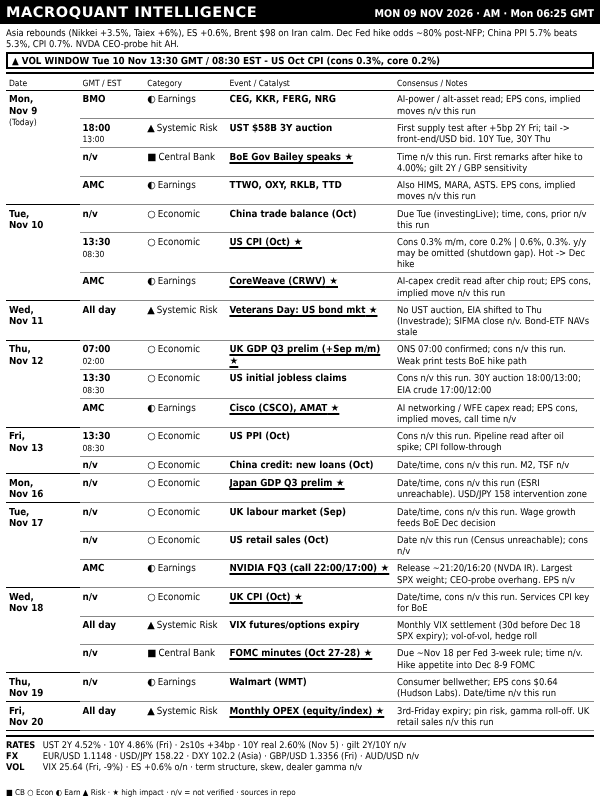
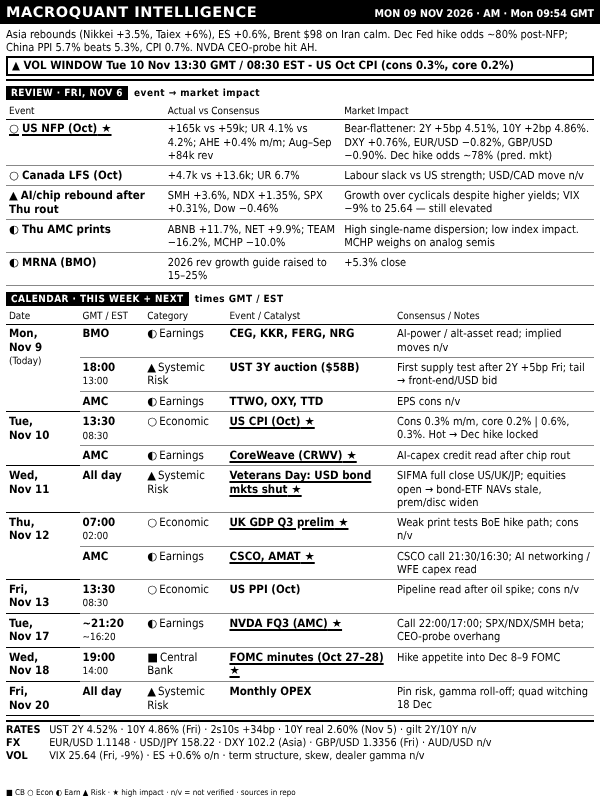
Add previous-session review section; calendar 8-14 rows; PM run moves to 21:36 London (after US close)
Claude-Session: https://claude.ai/code/session_016SJqa3yVmyLKXgTCQTBjVx

Changed region(s): [[0.0, 0.0, 0.99, 0.9688], [0.0, 0.5, 0.09, 0.6875]]

diff --git a/out/dashboard.html b/out/dashboard.html
@@ -26,6 +26,11 @@ table.bd{border-collapse:collapse;width:100%;table-layout:fixed;margin-top:1px}
 .bd tr.h td.ev{text-decoration:underline;text-decoration-thickness:1.5px;text-underline-offset:2px}
 .bd tr.h td.ev:after{content:' ★';font-family:'DejaVu Sans',sans-serif}
 .bd td.nt{font-size:calc(10.2px*var(--s))}
+.sl{margin-top:calc(5px*var(--s));display:flex;align-items:center;gap:6px;font-weight:700;
+  font-size:calc(9.2px*var(--s));letter-spacing:.5px}
+.sl span{background:#000;color:#fff;padding:1px 5px}
+.rv td.ev i{font-style:normal;font-family:'DejaVu Sans',sans-serif;font-weight:400;margin-right:3px}
+.rv td.ac{font-size:calc(10.2px*var(--s))}
 .lv{margin-top:calc(4px*var(--s));border-top:2px solid #000;padding-top:2px}
 .lv div{white-space:nowrap;overflow:hidden;text-overflow:ellipsis;font-size:calc(10px*var(--s))}
 .lv b{display:inline-block;width:calc(40px*var(--s))}
@@ -33,9 +38,11 @@ table.bd{border-collapse:collapse;width:100%;table-layout:fixed;margin-top:1px}
 </style></head><body>
 <div id="root">
  <div class="hdr"><span class="t">MACROQUANT INTELLIGENCE</span>
-  <span class="r">MON 09 NOV 2026 · AM · Mon 06:25 GMT</span></div>
+  <span class="r">MON 09 NOV 2026 · AM · Mon 09:54 GMT</span></div>
  <div class="ban"><div class="rg">Asia rebounds (Nikkei +3.5%, Taiex +6%), ES +0.6%, Brent $98 on Iran calm. Dec Fed hike odds ~80% post-NFP; China PPI 5.7% beats 5.3%, CPI 0.7%. NVDA CEO-probe hit AH.</div><div class="al">▲ VOL WINDOW Tue 10 Nov 13:30 GMT / 08:30 EST - US Oct CPI (cons 0.3%, core 0.2%)</div></div>
- <table class="bd"><colgroup><col style="width:12.5%"><col style="width:11%"><col style="width:14%"><col style="width:28.5%"><col></colgroup><tr><th>Date</th><th>GMT / EST</th><th>Category</th><th>Event / Catalyst</th><th>Consensus / Notes</th></tr><tr class="g0"><td class="dt" rowspan="4">Mon,<br>Nov&nbsp;9<span class="tg">(Today)</span></td><td class="tm"><b>BMO</b></td><td class="ct"><i>◐</i>Earnings</td><td class="ev">CEG, KKR, FERG, NRG</td><td class="nt">AI-power / alt-asset read; EPS cons, implied moves n/v this run</td></tr><tr class=""><td class="tm"><b>18:00</b><span>13:00</span></td><td class="ct"><i>▲</i>Systemic Risk</td><td class="ev">UST $58B 3Y auction</td><td class="nt">First supply test after +5bp 2Y Fri; tail -&gt; front-end/USD bid. 10Y Tue, 30Y Thu</td></tr><tr class="h"><td class="tm"><b>n/v</b></td><td class="ct"><i>■</i>Central Bank</td><td class="ev">BoE Gov Bailey speaks</td><td class="nt">Time n/v this run. First remarks after hike to 4.00%; gilt 2Y / GBP sensitivity</td></tr><tr class=""><td class="tm"><b>AMC</b></td><td class="ct"><i>◐</i>Earnings</td><td class="ev">TTWO, OXY, RKLB, TTD</td><td class="nt">Also HIMS, MARA, ASTS. EPS cons, implied moves n/v this run</td></tr><tr class="g0"><td class="dt" rowspan="3">Tue,<br>Nov&nbsp;10</td><td class="tm"><b>n/v</b></td><td class="ct"><i>○</i>Economic</td><td class="ev">China trade balance (Oct)</td><td class="nt">Due Tue (investingLive); time, cons, prior n/v this run</td></tr><tr class="h"><td class="tm"><b>13:30</b><span>08:30</span></td><td class="ct"><i>○</i>Economic</td><td class="ev">US CPI (Oct)</td><td class="nt">Cons 0.3% m/m, core 0.2% | 0.6%, 0.3%. y/y may be omitted (shutdown gap). Hot -&gt; Dec hike</td></tr><tr class="h"><td class="tm"><b>AMC</b></td><td class="ct"><i>◐</i>Earnings</td><td class="ev">CoreWeave (CRWV)</td><td class="nt">AI-capex credit read after chip rout; EPS cons, implied move n/v this run</td></tr><tr class="g0 h"><td class="dt" rowspan="1">Wed,<br>Nov&nbsp;11</td><td class="tm"><b>All day</b></td><td class="ct"><i>▲</i>Systemic Risk</td><td class="ev">Veterans Day: US bond mkt</td><td class="nt">No UST auction, EIA shifted to Thu (Investrade); SIFMA close n/v. Bond-ETF NAVs stale</td></tr><tr class="g0 h"><td class="dt" rowspan="3">Thu,<br>Nov&nbsp;12</td><td class="tm"><b>07:00</b><span>02:00</span></td><td class="ct"><i>○</i>Economic</td><td class="ev">UK GDP Q3 prelim (+Sep m/m)</td><td class="nt">ONS 07:00 confirmed; cons n/v this run. Weak print tests BoE hike path</td></tr><tr class=""><td class="tm"><b>13:30</b><span>08:30</span></td><td class="ct"><i>○</i>Economic</td><td class="ev">US initial jobless claims</td><td class="nt">Cons n/v this run. 30Y auction 18:00/13:00; EIA crude 17:00/12:00</td></tr><tr class="h"><td class="tm"><b>AMC</b></td><td class="ct"><i>◐</i>Earnings</td><td class="ev">Cisco (CSCO), AMAT</td><td class="nt">AI networking / WFE capex read; EPS cons, implied moves, call time n/v</td></tr><tr class="g0"><td class="dt" rowspan="2">Fri,<br>Nov&nbsp;13</td><td class="tm"><b>13:30</b><span>08:30</span></td><td class="ct"><i>○</i>Economic</td><td class="ev">US PPI (Oct)</td><td class="nt">Cons n/v this run. Pipeline read after oil spike; CPI follow-through</td></tr><tr class=""><td class="tm"><b>n/v</b></td><td class="ct"><i>○</i>Economic</td><td class="ev">China credit: new loans (Oct)</td><td class="nt">Date/time, cons n/v this run. M2, TSF n/v</td></tr><tr class="g0 h"><td class="dt" rowspan="1">Mon,<br>Nov&nbsp;16</td><td class="tm"><b>n/v</b></td><td class="ct"><i>○</i>Economic</td><td class="ev">Japan GDP Q3 prelim</td><td class="nt">Date/time, cons n/v this run (ESRI unreachable). USD/JPY 158 intervention zone</td></tr><tr class="g0"><td class="dt" rowspan="3">Tue,<br>Nov&nbsp;17</td><td class="tm"><b>n/v</b></td><td class="ct"><i>○</i>Economic</td><td class="ev">UK labour market (Sep)</td><td class="nt">Date/time, cons n/v this run. Wage growth feeds BoE Dec decision</td></tr><tr class=""><td class="tm"><b>n/v</b></td><td class="ct"><i>○</i>Economic</td><td class="ev">US retail sales (Oct)</td><td class="nt">Date n/v this run (Census unreachable); cons n/v</td></tr><tr class="h"><td class="tm"><b>AMC</b></td><td class="ct"><i>◐</i>Earnings</td><td class="ev">NVIDIA FQ3 (call 22:00/17:00)</td><td class="nt">Release ~21:20/16:20 (NVDA IR). Largest SPX weight; CEO-probe overhang. EPS n/v</td></tr><tr class="g0 h"><td class="dt" rowspan="3">Wed,<br>Nov&nbsp;18</td><td class="tm"><b>n/v</b></td><td class="ct"><i>○</i>Economic</td><td class="ev">UK CPI (Oct)</td><td class="nt">Date/time, cons n/v this run. Services CPI key for BoE</td></tr><tr class=""><td class="tm"><b>All day</b></td><td class="ct"><i>▲</i>Systemic Risk</td><td class="ev">VIX futures/options expiry</td><td class="nt">Monthly VIX settlement (30d before Dec 18 SPX expiry); vol-of-vol, hedge roll</td></tr><tr class="h"><td class="tm"><b>n/v</b></td><td class="ct"><i>■</i>Central Bank</td><td class="ev">FOMC minutes (Oct 27-28)</td><td class="nt">Due ~Nov 18 per Fed 3-week rule; time n/v. Hike appetite into Dec 8-9 FOMC</td></tr><tr class="g0"><td class="dt" rowspan="1">Thu,<br>Nov&nbsp;19</td><td class="tm"><b>n/v</b></td><td class="ct"><i>◐</i>Earnings</td><td class="ev">Walmart (WMT)</td><td class="nt">Consumer bellwether; EPS cons $0.64 (Hudson Labs). Date/time n/v this run</td></tr><tr class="g0 h"><td class="dt" rowspan="1">Fri,<br>Nov&nbsp;20</td><td class="tm"><b>All day</b></td><td class="ct"><i>▲</i>Systemic Risk</td><td class="ev">Monthly OPEX (equity/index)</td><td class="nt">3rd-Friday expiry; pin risk, gamma roll-off. UK retail sales n/v this run</td></tr></table>
+ <div class="sl"><span>REVIEW · FRI, NOV 6</span>event → market impact</div><table class="bd rv"><colgroup><col style="width:27%"><col style="width:30%"><col></colgroup><tr><th>Event</th><th>Actual vs Consensus</th><th>Market Impact</th></tr><tr class="h"><td class="ev"><i>○</i>US NFP (Oct)</td><td class="ac">+165k vs +59k; UR 4.1% vs 4.2%; AHE +0.4% m/m; Aug–Sep +84k rev</td><td class="nt">Bear-flattener: 2Y +5bp 4.51%, 10Y +2bp 4.86%. DXY +0.76%, EUR/USD −0.82%, GBP/USD −0.90%. Dec hike odds ~78% (pred. mkt)</td></tr><tr><td class="ev"><i>○</i>Canada LFS (Oct)</td><td class="ac">+4.7k vs +13.6k; UR 6.7%</td><td class="nt">Labour slack vs US strength; USD/CAD move n/v</td></tr><tr><td class="ev"><i>▲</i>AI/chip rebound after Thu rout</td><td class="ac">SMH +3.6%, NDX +1.35%, SPX +0.31%, Dow −0.46%</td><td class="nt">Growth over cyclicals despite higher yields; VIX −9% to 25.64 — still elevated</td></tr><tr><td class="ev"><i>◐</i>Thu AMC prints</td><td class="ac">ABNB +11.7%, NET +9.9%; TEAM −16.2%, MCHP −10.0%</td><td class="nt">High single-name dispersion; low index impact. MCHP weighs on analog semis</td></tr><tr><td class="ev"><i>◐</i>MRNA (BMO)</td><td class="ac">2026 rev growth guide raised to 15–25%</td><td class="nt">+5.3% close</td></tr></table>
+ <div class="sl"><span>CALENDAR · THIS WEEK + NEXT</span>times GMT / EST</div>
+ <table class="bd"><colgroup><col style="width:12.5%"><col style="width:11%"><col style="width:14%"><col style="width:28.5%"><col></colgroup><tr><th>Date</th><th>GMT / EST</th><th>Category</th><th>Event / Catalyst</th><th>Consensus / Notes</th></tr><tr class="g0"><td class="dt" rowspan="3">Mon,<br>Nov&nbsp;9<span class="tg">(Today)</span></td><td class="tm"><b>BMO</b></td><td class="ct"><i>◐</i>Earnings</td><td class="ev">CEG, KKR, FERG, NRG</td><td class="nt">AI-power / alt-asset read; implied moves n/v</td></tr><tr class=""><td class="tm"><b>18:00</b><span>13:00</span></td><td class="ct"><i>▲</i>Systemic Risk</td><td class="ev">UST 3Y auction ($58B)</td><td class="nt">First supply test after 2Y +5bp Fri; tail → front-end/USD bid</td></tr><tr class=""><td class="tm"><b>AMC</b></td><td class="ct"><i>◐</i>Earnings</td><td class="ev">TTWO, OXY, TTD</td><td class="nt">EPS cons n/v</td></tr><tr class="g0 h"><td class="dt" rowspan="2">Tue,<br>Nov&nbsp;10</td><td class="tm"><b>13:30</b><span>08:30</span></td><td class="ct"><i>○</i>Economic</td><td class="ev">US CPI (Oct)</td><td class="nt">Cons 0.3% m/m, core 0.2% | 0.6%, 0.3%. Hot → Dec hike locked</td></tr><tr class="h"><td class="tm"><b>AMC</b></td><td class="ct"><i>◐</i>Earnings</td><td class="ev">CoreWeave (CRWV)</td><td class="nt">AI-capex credit read after chip rout</td></tr><tr class="g0 h"><td class="dt" rowspan="1">Wed,<br>Nov&nbsp;11</td><td class="tm"><b>All day</b></td><td class="ct"><i>▲</i>Systemic Risk</td><td class="ev">Veterans Day: USD bond mkts shut</td><td class="nt">SIFMA full close US/UK/JP; equities open → bond-ETF NAVs stale, prem/disc widen</td></tr><tr class="g0 h"><td class="dt" rowspan="2">Thu,<br>Nov&nbsp;12</td><td class="tm"><b>07:00</b><span>02:00</span></td><td class="ct"><i>○</i>Economic</td><td class="ev">UK GDP Q3 prelim</td><td class="nt">Weak print tests BoE hike path; cons n/v</td></tr><tr class="h"><td class="tm"><b>AMC</b></td><td class="ct"><i>◐</i>Earnings</td><td class="ev">CSCO, AMAT</td><td class="nt">CSCO call 21:30/16:30; AI networking / WFE capex read</td></tr><tr class="g0"><td class="dt" rowspan="1">Fri,<br>Nov&nbsp;13</td><td class="tm"><b>13:30</b><span>08:30</span></td><td class="ct"><i>○</i>Economic</td><td class="ev">US PPI (Oct)</td><td class="nt">Pipeline read after oil spike; cons n/v</td></tr><tr class="g0 h"><td class="dt" rowspan="1">Tue,<br>Nov&nbsp;17</td><td class="tm"><b>~21:20</b><span>~16:20</span></td><td class="ct"><i>◐</i>Earnings</td><td class="ev">NVDA FQ3 (AMC)</td><td class="nt">Call 22:00/17:00; SPX/NDX/SMH beta; CEO-probe overhang</td></tr><tr class="g0 h"><td class="dt" rowspan="1">Wed,<br>Nov&nbsp;18</td><td class="tm"><b>19:00</b><span>14:00</span></td><td class="ct"><i>■</i>Central Bank</td><td class="ev">FOMC minutes (Oct 27–28)</td><td class="nt">Hike appetite into Dec 8–9 FOMC</td></tr><tr class="g0"><td class="dt" rowspan="1">Fri,<br>Nov&nbsp;20</td><td class="tm"><b>All day</b></td><td class="ct"><i>▲</i>Systemic Risk</td><td class="ev">Monthly OPEX</td><td class="nt">Pin risk, gamma roll-off; quad witching 18 Dec</td></tr></table>
  <div class="lv"><div><b>RATES</b>UST 2Y 4.52% · 10Y 4.86% (Fri) · 2s10s +34bp · 10Y real 2.60% (Nov 5) · gilt 2Y/10Y n/v</div><div><b>FX</b>EUR/USD 1.1148 · USD/JPY 158.22 · DXY 102.2 (Asia) · GBP/USD 1.3356 (Fri) · AUD/USD n/v</div><div><b>VOL</b>VIX 25.64 (Fri, -9%) · ES +0.6% o/n · term structure, skew, dealer gamma n/v</div></div>
 </div>
 <div class="foot">■ CB ○ Econ ◐ Earn ▲ Risk · ★ high impact · n/v = not verified · sources in repo</div>

diff --git a/render/render.py b/render/render.py
@@ -1,7 +1,7 @@
 #!/usr/bin/env python3
 """Render data/dashboard.json into a 600x800 16-level grayscale PNG for a Kindle (8th gen, 167 ppi).
 
-Layout: header · regime/alert banner · date-grouped event table
+Layout: header · regime/alert banner · previous-session review · date-grouped event table
         (Date | Time GMT/EST | Category | Event / Catalyst | Consensus / Notes) · levels strip · footer.
 
 Usage: python3 render/render.py [--data data/dashboard.json] [--out out]
@@ -26,8 +26,8 @@ NY = ZoneInfo("America/New_York")
 
 # Publishing schedule (London time) — keep in sync with the scheduled tasks.
 RUNS = {  # weekday (Mon=0) -> list of (hh, mm)
-    0: [(6, 6), (20, 36)], 1: [(6, 6), (20, 36)], 2: [(6, 6), (20, 36)],
-    3: [(6, 6), (20, 36)], 4: [(6, 6)], 5: [], 6: [(20, 36)],
+    0: [(6, 6), (21, 36)], 1: [(6, 6), (21, 36)], 2: [(6, 6), (21, 36)],
+    3: [(6, 6), (21, 36)], 4: [(6, 6)], 5: [], 6: [(21, 36)],
 }
 FETCH_LAG_MIN = 40       # Kindle wakes this long after a scheduled run starts
 
@@ -72,6 +72,11 @@ table.bd{border-collapse:collapse;width:100%;table-layout:fixed;margin-top:1px}
 .bd tr.h td.ev{text-decoration:underline;text-decoration-thickness:1.5px;text-underline-offset:2px}
 .bd tr.h td.ev:after{content:' ★';font-family:'DejaVu Sans',sans-serif}
 .bd td.nt{font-size:calc(10.2px*var(--s))}
+.sl{margin-top:calc(5px*var(--s));display:flex;align-items:center;gap:6px;font-weight:700;
+  font-size:calc(9.2px*var(--s));letter-spacing:.5px}
+.sl span{background:#000;color:#fff;padding:1px 5px}
+.rv td.ev i{font-style:normal;font-family:'DejaVu Sans',sans-serif;font-weight:400;margin-right:3px}
+.rv td.ac{font-size:calc(10.2px*var(--s))}
 .lv{margin-top:calc(4px*var(--s));border-top:2px solid #000;padding-top:2px}
 .lv div{white-space:nowrap;overflow:hidden;text-overflow:ellipsis;font-size:calc(10px*var(--s))}
 .lv b{display:inline-block;width:calc(40px*var(--s))}
@@ -120,6 +125,20 @@ def build_html(d):
                 f'<td class="ev">{esc(r["event"])}</td>'
                 f'<td class="nt">{esc(r.get("notes", ""))}</td></tr>')
 
+    review = ""
+    rv = d.get("review") or {}
+    if rv.get("rows"):
+        rr = ['<colgroup><col style="width:27%"><col style="width:30%"><col></colgroup>',
+              '<tr><th>Event</th><th>Actual vs Consensus</th><th>Market Impact</th></tr>']
+        for r in rv["rows"]:
+            sym = CATS.get(r.get("cat", "").upper(), ("·", ""))[0]
+            cls = ' class="h"' if r.get("imp") == "H" else ""
+            rr.append(f'<tr{cls}><td class="ev"><i>{sym}</i>{esc(r["event"])}</td>'
+                      f'<td class="ac">{esc(r.get("result", ""))}</td>'
+                      f'<td class="nt">{esc(r.get("impact", ""))}</td></tr>')
+        review = (f'<div class="sl"><span>REVIEW · {esc(rv.get("date", "PREVIOUS SESSION")).upper()}</span>'
+                  f'event → market impact</div><table class="bd rv">{"".join(rr)}</table>')
+
     lv = "".join(f'<div><b>{esc(x["k"])}</b>{esc(x["v"])}</div>' for x in d.get("levels", []))
 
     return f"""<!doctype html><html><head><meta charset="utf-8"><style>{CSS}</style></head><body>
@@ -127,6 +146,8 @@ def build_html(d):
  <div class="hdr"><span class="t">MACROQUANT INTELLIGENCE</span>
   <span class="r">{esc(d['session'])} · {esc(d.get('edition',''))} · {esc(gen_s)}</span></div>
  <div class="ban"><div class="rg">{esc(s['regime'])}</div><div class="al">▲ {esc(s['alert'])}</div></div>
+ {review}
+ <div class="sl"><span>CALENDAR · THIS WEEK + NEXT</span>times {lz} / {nz}</div>
  <table class="bd">{''.join(rows)}</table>
  <div class="lv">{lv}</div>
 </div>

diff --git a/PROMPT.md b/PROMPT.md
@@ -5,7 +5,8 @@ You are acting as a **Senior Quantitative Macro Strategist and Market Structure 
 Everything must fit on ONE non-scrolling, high-contrast black-and-white screen.
 
 ## Editions
-- **PM edition** (runs Sun–Thu ~20:36 London): `session` = the NEXT trading session. Full rebuild.
+- **PM edition** (runs Sun–Thu ~21:36 London, after the 21:00 London US cash close): `session` = the NEXT trading
+  session. Full rebuild.
 - **AM edition** (runs Mon–Fri ~06:06 London): `session` = TODAY's session. Re-verify everything, fold in overnight
   news (Asia data, BoJ/RBA/PBoC, US futures, overnight earnings), refresh all levels.
 - If the next session is a US equity holiday, say so in the alert and use the following session.
@@ -23,8 +24,17 @@ Everything must fit on ONE non-scrolling, high-contrast black-and-white screen.
 4. Analytical statements (liquidity, FX sensitivities, curve reasoning) are allowed as judgement, but any number in
    them must be sourced.
 
-## Layout (ZW's preferred style): one date-grouped event table
-Columns: **Date | Time (GMT/EST — label auto from the session date) | Category | Event / Catalyst | Consensus / Notes**.
+## Layout (ZW's preferred style): previous-session review + one date-grouped event table
+- `review` — **post-mortem of the previous trading day** (the most recent session with a completed US close:
+  PM edition → today; AM edition / Sunday PM → the prior trading day). `review.date` (e.g. `Fri, Nov 6`) and
+  `review.rows` (3–6 rows, most market-moving first), one row per event that actually happened that day — data
+  releases, central-bank decisions/speakers, earnings, auctions, structural/flow events. Row: `cat`, optional
+  `imp: "H"`, `event` (≤ 30 chars), `result` (≤ 70 chars: actual vs consensus, revisions; for earnings the price move
+  and the reason), `impact` (≤ 120 chars: the observed cross-asset reaction with sourced numbers — 2Y/10Y bp moves and
+  curve shape, DXY / EUR/USD / GBP/USD / USD/JPY / AUD/USD %, SPX/NDX/sector %, VIX, Fed/BoE pricing change).
+  Report what the market did, from closing data / wraps fetched in this run; reaction numbers you cannot source
+  are `n/v`. Do not speculate on causality beyond what sources state.
+Then the calendar table. Columns: **Date | Time (GMT/EST — label auto from the session date) | Category | Event / Catalyst | Consensus / Notes**.
 The five analytical modules are folded into this one board:
 
 - `summary.regime` (≤ 200 chars) — the immediate market-regime driver.
@@ -42,15 +52,13 @@ The five analytical modules are folded into this one board:
   ECO = Economic Indicators (CPI, PCE, NFP, GDP, flash PMIs…); EARN = Corporate Earnings (mega-cap first);
   RISK = Systemic / market-structure events: bond-market holidays, OPEX / quad witching, VIX expiry, index review
   announcements vs effective dates (MOC distortions), elections, liquidity vacuums.
-  Budget: ~14–22 rows total; drop low-impact rows before shrinking text.
-  **Minimum coverage — do not under-fill.** At least 14 rows, and every trading day in the window gets its own date
-  group (a quiet day still gets its most relevant row). Must include, when they fall in the window: every G10
+  Budget: **8–14 rows** (8 is fine). Quality over quantity: a row whose date/time AND substance are both `n/v`
+  does not earn a place. Prioritise, when they fall in the window: every G10
   central-bank decision and FOMC minutes; US NFP/CPI/PPI/retail sales/PCE/GDP; UK GDP/CPI/labour; EZ GDP/CPI flash;
   China CPI/PPI/trade/activity; Japan GDP/CPI; mega-cap earnings (and Cisco/Walmart-scale bellwethers); bond-market
-  holidays, OPEX, VIX expiry, index-review dates. Start from the previous `data/dashboard.json`: carry forward every
-  still-upcoming row after re-checking its date/time against a source in this run. A row whose consensus you could not
-  verify stays on the board with `consensus n/v`; only drop a row if the event itself is cancelled or moved out of the
-  window.
+  holidays, OPEX, VIX expiry, index-review dates. Start from the previous `data/dashboard.json`: carry forward
+  still-upcoming high-impact rows after re-checking their date/time against a source in this run (a row whose only
+  gap is the consensus may stay with `cons n/v`). Days without a relevant event may be omitted.
 - `levels` — exactly three rows: `RATES` (UST & gilt 2Y/10Y, 2s10s, 10Y real yield), `FX` (EUR/USD, GBP/USD,
   USD/JPY, AUD/USD; JPY crosses if notable), `VOL` (VIX, term structure, skew, dealer gamma) — each ≤ 95 chars,
   numbers sourced or `n/v`. Quant / ETF / liquidity commentary goes in the relevant row's `notes`.

diff --git a/README.md b/README.md
@@ -10,5 +10,5 @@ MacroQuant Intelligence：每日宏观与市场结构看板，显示在越狱 Ki
   - `mq.sh` → `/mnt/us/macroquant/mq.sh`
   - `MacroQuant_Test.sh`、`MacroQuant_Start.sh` → `/mnt/us/documents/`（在书库里点开运行）
 
-发布时间（伦敦）：周日至周四 20:36（PM 版，下一交易日），周一至周五 06:06（AM 版，当天）。
+发布时间（伦敦）：周日至周四 21:36（PM 版，美股收盘后，下一交易日），周一至周五 06:06（AM 版，当天）。
 Kindle 在发布后约 40 分钟唤醒拉图；电池模式下其余时间深度休眠。退出：长按电源键 20–40 秒重启。
